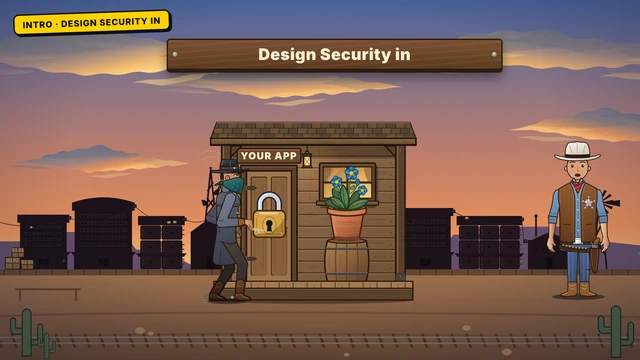
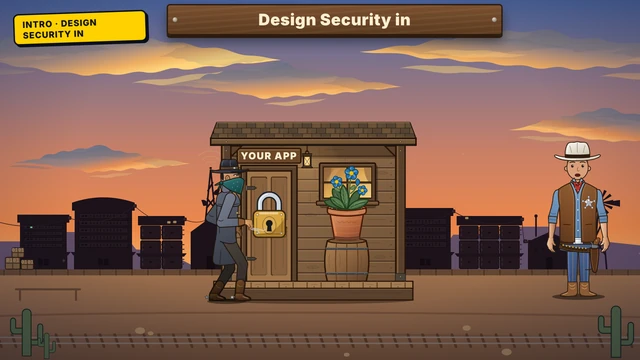
Enrich security song sunset and align heading signs

Changed region(s): [[0.0, 0.0, 0.8125, 0.2444]]

diff --git a/css/song-video-frontier.css b/css/song-video-frontier.css
@@ -24,16 +24,29 @@
   display: block;
 }
 
-.fr-sky-0 { stop-color: color-mix(in srgb, color-mix(in srgb, #506ba5, #10204b var(--fr-blue-hour)), #070e23 var(--fr-night)); }
-.fr-sky-1 { stop-color: color-mix(in srgb, color-mix(in srgb, #cd836b, #294372 var(--fr-blue-hour)), #12223e var(--fr-night)); }
-.fr-sky-2 { stop-color: color-mix(in srgb, color-mix(in srgb, #f69354, #586484 var(--fr-blue-hour)), #29334d var(--fr-night)); }
-.fr-sky-3 { stop-color: color-mix(in srgb, color-mix(in srgb, #ffd080, #a27c70 var(--fr-blue-hour)), #4c454e var(--fr-night)); }
+/* Keep long section badges beside the signs now aligned to the top edge. */
+.theme-frontier .badge {
+  box-sizing: border-box;
+  max-width: 200px;
+  white-space: normal;
+  text-wrap: balance;
+}
 
-.fr-sun-0 { stop-color: color-mix(in srgb, #ffd17a, #f48b50 var(--fr-sun-red)); stop-opacity: 0.5; }
-.fr-sun-1 { stop-color: #e88150; stop-opacity: 0; }
+.fr-sky-0 { stop-color: color-mix(in srgb, color-mix(in srgb, #506ba5, #10204b var(--fr-blue-hour)), #070e23 var(--fr-night)); }
+.fr-sky-1 { stop-color: color-mix(in srgb, color-mix(in srgb, #db8664, #294372 var(--fr-blue-hour)), #12223e var(--fr-night)); }
+.fr-sky-2 { stop-color: color-mix(in srgb, color-mix(in srgb, #ff8c42, #586484 var(--fr-blue-hour)), #29334d var(--fr-night)); }
+.fr-sky-3 { stop-color: color-mix(in srgb, color-mix(in srgb, #ffbc67, #a27c70 var(--fr-blue-hour)), #4c454e var(--fr-night)); }
+
+.fr-sun-0 { stop-color: color-mix(in srgb, #ffc374, #f36635 var(--fr-sun-red)); stop-opacity: 0.5; }
+.fr-sun-1 { stop-color: #ee6539; stop-opacity: 0; }
 .fr-sun-disc { fill: url(#fr-sun-face); }
-.fr-sun-upper { stop-color: color-mix(in srgb, #ffebad, #ffc572 var(--fr-sun-red)); }
-.fr-sun-lower { stop-color: color-mix(in srgb, #ffc65e, #f6763b var(--fr-sun-red)); }
+/* The upper limb must redden too: it is the last part visible above the
+   horizon. Keep the lower limb deeper, with the warm haze behind the disc. */
+.fr-sun-upper { stop-color: color-mix(in srgb, #ffe3a0, #ff6840 var(--fr-sun-red)); }
+.fr-sun-lower { stop-color: color-mix(in srgb, #ffbb50, #dc321e var(--fr-sun-red)); }
+.fr-horizon-core { stop-color: color-mix(in srgb, #ffc273, #ee5832 var(--fr-sun-red)); stop-opacity: 0.72; }
+.fr-horizon-warm { stop-color: color-mix(in srgb, #ef8150, #d8472d var(--fr-sun-red)); stop-opacity: 0.28; }
+.fr-horizon-edge { stop-color: #d8472d; stop-opacity: 0; }
 
 .fr-stars circle { fill: #f4ead8; }
 
@@ -48,9 +61,9 @@
 .fr-cloud-wisp { fill: url(#fr-cloud); opacity: 0.45; }
 .fr-cloud-direct { opacity: var(--fr-cloud-light, 0); }
 .fr-cloud-sun-shade { stop-color: #e79065; stop-opacity: 0; }
-.fr-cloud-sun-middle { stop-color: color-mix(in srgb, #eeb784, #c9684b var(--fr-cloud-red, 0%)); stop-opacity: 0.16; }
-.fr-cloud-sun-warm { stop-color: color-mix(in srgb, #ffca70, #f16f3c var(--fr-cloud-red, 0%)); stop-opacity: 0.85; }
-.fr-cloud-sun-rim { stop-color: color-mix(in srgb, #ffdf8d, #ffa35a var(--fr-cloud-red, 0%)); }
+.fr-cloud-sun-middle { stop-color: color-mix(in srgb, #f4b67b, #d4623f var(--fr-cloud-red, 0%)); stop-opacity: 0.18; }
+.fr-cloud-sun-warm { stop-color: color-mix(in srgb, #ffbe60, #f66b32 var(--fr-cloud-red, 0%)); stop-opacity: 0.85; }
+.fr-cloud-sun-rim { stop-color: color-mix(in srgb, #ffdb80, #ff9852 var(--fr-cloud-red, 0%)); }
 .fr-cloud-lit-wisp { opacity: 0.5; }
 .fr-cloud-fold { fill: color-mix(in srgb, #596578, #142039 var(--fr-night)); opacity: 0.18; }
 .fr-cloud-filament { opacity: calc(var(--fr-cloud-light, 0) * 0.38); }

diff --git a/js/song-video/frontier.js b/js/song-video/frontier.js
@@ -93,7 +93,9 @@
       ry: (bottom - top) / 2 * SUN_DISPLAY_SCALE,
       elevation,
       azimuth: Math.atan2(north, west),
-      reddening: span(2 - elevation, [0, 2.6]),
+      // Reach red while the upper limb is still visible, rather than only
+      // after the horizon has hidden the warmer bottom of the disc.
+      reddening: span(1.2 - elevation, [0, 1.4]),
       afterglow: 1 - span(-elevation, [0.5, 7]),
     };
   }
@@ -327,6 +329,7 @@
     };
     grad('fr-sky', 'linearGradient', { x1: 0, y1: 0, x2: 0, y2: 1 }, [['0', 'fr-sky-0'], ['0.55', 'fr-sky-1'], ['0.82', 'fr-sky-2'], ['1', 'fr-sky-3']]);
     grad('fr-sun', 'radialGradient', { cx: 0.5, cy: 0.5, r: 0.5 }, [['0', 'fr-sun-0'], ['1', 'fr-sun-1']]);
+    grad('fr-horizon-glow', 'radialGradient', { cx: 0.5, cy: 0.5, r: 0.5 }, [['0', 'fr-horizon-core'], ['0.5', 'fr-horizon-warm'], ['1', 'fr-horizon-edge']]);
     grad('fr-sun-face', 'linearGradient', { x1: 0, y1: 0, x2: 0, y2: 1 }, [['0', 'fr-sun-upper'], ['1', 'fr-sun-lower']]);
     grad('fr-road', 'linearGradient', { x1: 0, y1: 0, x2: 0, y2: 1 }, [['0', 'fr-road-0'], ['0.45', 'fr-road-1'], ['1', 'fr-road-2']]);
     grad('fr-cloud', 'linearGradient', { x1: 0, y1: 0, x2: 0, y2: 1 }, [['0', 'fr-cloud-0'], ['0.48', 'fr-cloud-1'], ['0.8', 'fr-cloud-2'], ['1', 'fr-cloud-3']]);
@@ -338,7 +341,7 @@
     const skyClip = svg('clipPath', { id: 'fr-sky-clip' }, defs);
     svg('rect', { width: W, height: HORIZON }, skyClip);
     const sunlight = svg('g', { 'clip-path': 'url(#fr-sky-clip)' }, art);
-    const horizonGlow = svg('ellipse', { class: 'fr-sun', cy: HORIZON - 4, rx: 270, ry: 100, fill: 'url(#fr-sun)' }, sunlight);
+    const horizonGlow = svg('ellipse', { class: 'fr-horizon-glow', cy: HORIZON - 4, rx: 300, ry: 108, fill: 'url(#fr-horizon-glow)' }, sunlight);
     const sunGlow = svg('ellipse', { class: 'fr-sun', rx: 64, ry: 56, fill: 'url(#fr-sun)' }, sunlight);
     const sun = svg('ellipse', { class: 'fr-sun-disc' }, sunlight);
     const clouds = [[-110, 24, 1.65, 0.18, 11], [240, 82, 1.15, 0.12, 7], [535, 18, 1.8, 0.16, 9.5], [760, 153, 1.1, 0.16, 2.4], [15, 210, 0.85, 0.22, 1.6]]
@@ -409,7 +412,7 @@
       stage.style.setProperty('--fr-sun-red', `${(100 * light.reddening).toFixed(2)}%`);
       stars.setAttribute('opacity', (0.4 * span(lightTime, [duration * 0.3 / twilightSpeed, blueHourAt]) + 0.38 * night).toFixed(3));
       horizonGlow.setAttribute('cx', light.x.toFixed(2));
-      horizonGlow.setAttribute('opacity', (0.75 * light.afterglow).toFixed(3));
+      horizonGlow.setAttribute('opacity', ((0.62 + 0.3 * light.reddening) * light.afterglow).toFixed(3));
       sunGlow.setAttribute('cx', light.x.toFixed(2));
       sunGlow.setAttribute('cy', light.y.toFixed(2));
       sunGlow.setAttribute('opacity', (0.75 * (1 - span(-light.elevation, [0, 1]))).toFixed(3));

diff --git a/js/song-video/songs/design_it_in.js b/js/song-video/songs/design_it_in.js
@@ -78,9 +78,9 @@
       return keys.map(([i, from], k) => [i, from, k + 1 < keys.length ? keys[k + 1][1] : last]);
     }
 
-    /** The scene's plank sign: the plan question being answered. */
-    function header(parent, text, sub, at, until, { y = 50 } = {}) {
-      return W.plank(parent, text, { x: 250, y, w: 460, sub, at, until });
+    /** The scene's plank sign, aligned just inside the top edge. */
+    function header(parent, text, sub, at, until) {
+      return W.plank(parent, text, { x: 250, y: 6, w: 460, sub, at, until });
     }
 
     // ----------------------------------------------------------------
@@ -108,7 +108,7 @@
       const house = W.porch(s, { x: 330, ground: FEET, w: 280, sign: 'YOUR APP', at: planAt });
       const [lockX, lockY] = house.point('lock');
       W.padlock(s, { x: lockX - 32, y: lockY - 44, size: 64, tone: 'brass', sketchAt: design + 0.1, at: lockAt, how: 'slam', jiggleAt: beat(2.3) });
-      header(s, 'Design Security in', undefined, planAt, leave, { y: 58 });
+      header(s, 'Design Security in', undefined, planAt, leave);
       sheriff(content, 868, 2, leave - 0.3, {
         moves: [
           [5.6, 'tip', { hold: 1 }], [mark('intro-2', 'break') + 0.2, 'look', { dir: -1, hold: 1.4 }],
@@ -302,7 +302,7 @@
       // "Security through obscurity lasts till someone looks."
       const lockAt = before('v2-7');
       const b = W.group(s, before('v2-6'), lockAt);
-      W.plank(b, 'Security through obscurity', { x: 220, y: 60, w: 520, at: mark('v2-6', 'security'), tone: 'red' });
+      W.plank(b, 'Security through obscurity', { x: 250, y: 6, w: 460, at: mark('v2-6', 'security'), tone: 'red' });
       W.tag(b, 'lasts till someone looks', { x: 340, y: 130, w: 280, at: mark('v2-6', 'obscurity'), icon: 'eye' });
       // "Use locks the world has tested, their blueprints out on view."
       const c = W.group(s, lockAt, before('v2-9'));
@@ -515,8 +515,7 @@
       const leave = end('verse-4');
       const s = kit.scene(content, from, leave, { exit: 'fade' });
       const leastAt = mark('v4-9', 'least');
-      // A little lower than the others: this verse's badge is the widest.
-      header(s, '4 · Protection Mechanisms', 'How do you stop them?', from + 0.1, leastAt, { y: 58 });
+      header(s, '4 · Protection Mechanisms', 'How do you stop them?', from + 0.1, leastAt);
       // "With every lock you've got, and a plan for when one breaks."
       const townAt = before('v4-3');
       const a = W.group(s, from + 0.1, townAt);
